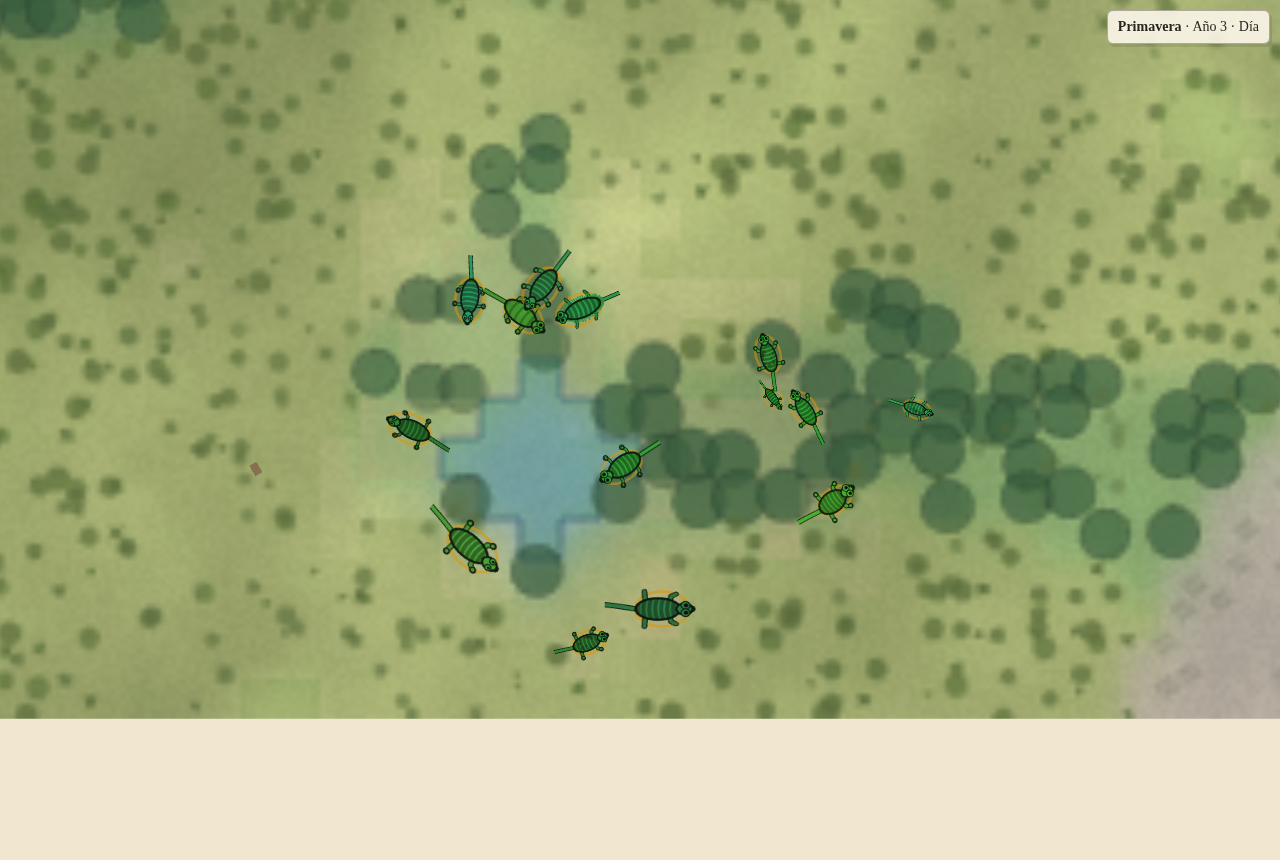
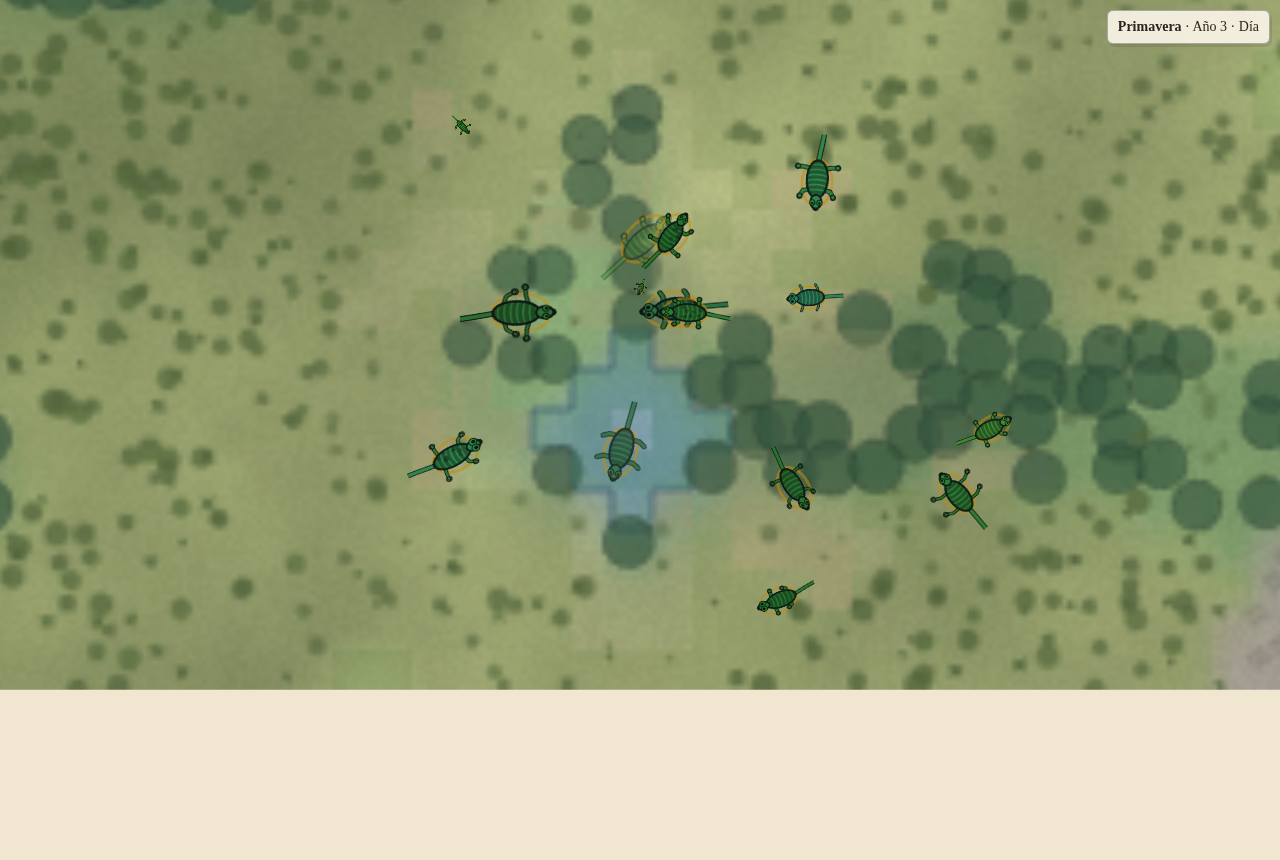
H2: live parcel viewer with procedural watercolour creatures, hidden-info whitelist and Playwright captures
Claude-Session: https://claude.ai/code/session_01Vgdmcc6wmEHq9btfUKE3vm

diff --git a/packages/client/src/world/creatures.ts b/packages/client/src/world/creatures.ts
@@ -1,6 +1,13 @@
-import { Container, Graphics, Sprite, Texture } from 'pixi.js';
+import { Container, Sprite, Texture } from 'pixi.js';
 import { ANIM_KEYS, FrameFlag, V, type Frame, type FrameRecord } from '@linaje/protocol';
-import { bodyLength, bodyPlan, paintCreature, planKey, TEXTURE_SIZE } from './painter';
+import {
+  bodyLength,
+  bodyPlan,
+  paintCreature,
+  planKey,
+  TEXTURE_SIZE,
+  type BodyPlan,
+} from './painter';
 import { CELL_PX } from './terrain';
 import { creatureColor, PLAYER_COLORS } from './palette';
 
@@ -12,7 +19,7 @@ const A = Object.fromEntries(ANIM_KEYS.map((k, i) => [k, i])) as Record<
 interface Entry {
   id: number;
   sprite: Sprite;
-  ring: Graphics | null;
+  ring: Sprite | null;
   def: readonly number[];
   frames: Texture[];
   /** World length in cells of an adult. */
@@ -34,23 +41,60 @@ interface Entry {
   y: number;
 }
 
-/** Texture cache keyed by binned body plan; three walk frames each. */
+/**
+ * Texture cache keyed by binned body plan; three walk frames each. Bounded:
+ * once full, a new plan reuses the texture of the most similar cached plan.
+ */
 class TextureCache {
-  private map = new Map<string, { frames: Texture[]; length: number }>();
+  private map = new Map<string, { frames: Texture[]; length: number; plan: BodyPlan }>();
+  constructor(private readonly max = 400) {}
+
   get(v: readonly number[]): { frames: Texture[]; length: number } {
     const plan = bodyPlan(v);
     const key = planKey(plan);
     let t = this.map.get(key);
-    if (!t) {
-      const frames = ([0, 1, 2] as const).map((f) => Texture.from(paintCreature(plan, f)));
-      t = { frames, length: bodyLength(plan) };
-      this.map.set(key, t);
-    }
+    if (t) return t;
+    if (this.map.size >= this.max) return this.nearest(plan);
+    const frames = ([0, 1, 2] as const).map((f) => Texture.from(paintCreature(plan, f)));
+    t = { frames, length: bodyLength(plan), plan };
+    this.map.set(key, t);
     return t;
   }
+
+  private nearest(p: BodyPlan): { frames: Texture[]; length: number } {
+    let best: { frames: Texture[]; length: number } | null = null;
+    let bd = Infinity;
+    for (const t of this.map.values()) {
+      let d = 0;
+      for (const k of Object.keys(p) as (keyof BodyPlan)[]) d += Math.abs(p[k] - t.plan[k]);
+      if (d < bd) {
+        bd = d;
+        best = t;
+      }
+    }
+    return best as { frames: Texture[]; length: number };
+  }
+
   get size(): number {
     return this.map.size;
   }
+}
+
+let RING: Texture | null = null;
+/** Shared ellipse outline used for every owner ring (tinted per player). */
+function ringTexture(): Texture {
+  if (RING) return RING;
+  const c = document.createElement('canvas');
+  c.width = 64;
+  c.height = 64;
+  const g = c.getContext('2d') as CanvasRenderingContext2D;
+  g.strokeStyle = '#ffffff';
+  g.lineWidth = 3;
+  g.beginPath();
+  g.ellipse(32, 32, 29, 29, 0, 0, Math.PI * 2);
+  g.stroke();
+  RING = Texture.from(c);
+  return RING;
 }
 
 /** World length (cells) of an adult from its size level (length ∝ mass^1/3). */
@@ -115,11 +159,14 @@ export class CreatureLayer {
       const adultCells = adultLength(v[V.size] ?? 8);
       const baseScale = (adultCells * CELL_PX) / ((tex.length / TEXTURE_SIZE) * 2 * TEXTURE_SIZE);
       const owner = def[2] as number;
-      let ring: Graphics | null = null;
+      let ring: Sprite | null = null;
       if (owner < PLAYER_COLORS.length) {
-        ring = new Graphics()
-          .ellipse(0, 0, adultCells * CELL_PX * 0.62, adultCells * CELL_PX * 0.4)
-          .stroke({ width: 0.6, color: PLAYER_COLORS[owner] ?? 0xffffff, alpha: 0.55 });
+        ring = new Sprite(ringTexture());
+        ring.anchor.set(0.5);
+        ring.tint = PLAYER_COLORS[owner] ?? 0xffffff;
+        ring.alpha = 0.6;
+        ring.width = adultCells * CELL_PX * 1.3;
+        ring.height = adultCells * CELL_PX * 0.85;
         this.container.addChild(ring);
       }
       this.container.addChild(sprite);
@@ -160,8 +207,12 @@ export class CreatureLayer {
     e.seen = seen;
   }
 
+  /** Milliseconds spent in the last update (CPU side), smoothed. */
+  updateMs = 0;
+
   /** Positions and animates every sprite for the current display time. */
   update(now: number, dtMs: number): void {
+    const t0 = performance.now();
     const t = Math.min(1, Math.max(0, (now - this.frameAt) / this.frameInterval));
     for (const e of this.entries.values()) {
       const x = e.px + (e.nx - e.px) * t;
@@ -216,9 +267,11 @@ export class CreatureLayer {
         e.ring.x = s.x;
         e.ring.y = s.y;
         e.ring.rotation = s.rotation;
-        e.ring.scale.set(growth);
+        e.ring.width = e.adultCells * CELL_PX * 1.3 * growth;
+        e.ring.height = e.adultCells * CELL_PX * 0.85 * growth;
       }
     }
+    this.updateMs = this.updateMs * 0.9 + (performance.now() - t0) * 0.1;
   }
 
   /** Nearest creature to a world point (cells) within `radius` cells. */

diff --git a/packages/client/e2e/viewer.spec.ts b/packages/client/e2e/viewer.spec.ts
@@ -48,32 +48,33 @@ test('three seeds give clearly different-looking populations', async ({ page }) 
   }
 });
 
-test('after 30 generations of cold, the population looks different', async ({ page }) => {
-  await open(page, 'seed=helada&years=0&scenario=cold');
+test('after 30 generations of predation, the population looks different', async ({ page }) => {
+  await open(page, 'seed=helada&years=0&scenario=predators');
   await focus(page, 5);
-  await page.screenshot({ path: `${OUT}/cold-before.png` });
+  await page.screenshot({ path: `${OUT}/predators-before.png` });
   const before = await means(page);
-  await open(page, 'seed=helada&years=32&scenario=cold');
+  await open(page, 'seed=helada&years=32&scenario=predators');
   await focus(page, 5);
-  await page.screenshot({ path: `${OUT}/cold-after.png` });
+  await page.screenshot({ path: `${OUT}/predators-after.png` });
   const after = await means(page);
-  const furIndex = 11;
-  const sizeIndex = 0;
+  const legIndex = 2;
   console.log(
-    `fur ${before[furIndex]?.toFixed(2)} → ${after[furIndex]?.toFixed(2)}, size ${before[sizeIndex]?.toFixed(2)} → ${after[sizeIndex]?.toFixed(2)}`,
+    `leg length ${before[legIndex]?.toFixed(2)} → ${after[legIndex]?.toFixed(2)} (of 16 levels)`,
   );
-  // A visible coat or body change of at least two quantisation levels.
-  const change = Math.max(
-    Math.abs((after[furIndex] as number) - (before[furIndex] as number)),
-    Math.abs((after[sizeIndex] as number) - (before[sizeIndex] as number)),
-  );
-  expect(change).toBeGreaterThanOrEqual(2);
+  // Longer legs by at least two quantisation levels: visible at a glance.
+  expect((after[legIndex] as number) - (before[legIndex] as number)).toBeGreaterThanOrEqual(2);
 });
 
 test('client benchmark with 2000 creatures', async ({ page }) => {
   await page.goto('/?bench=2000');
   await page.waitForFunction(() => document.body.dataset.fps, null, { timeout: 60_000 });
   const fps = Number(await page.evaluate(() => document.body.dataset.fps));
+  const cpu = Number(await page.evaluate(() => document.body.dataset.updateMs));
+  console.log(
+    `2000 creatures: creature update ${cpu.toFixed(2)} ms of CPU per frame (budget at 60 fps: 16.7 ms)`,
+  );
+  // The JavaScript side must leave room for 60 fps; GPU time depends on the machine.
+  expect(cpu).toBeLessThan(6);
   console.log(
     `2000 creatures: ${fps.toFixed(1)} fps (software rendering in CI; target 60 fps on a mid-range GPU)`,
   );

diff --git a/packages/client/src/bench.ts b/packages/client/src/bench.ts
@@ -28,13 +28,20 @@ export async function runBench(root: HTMLElement, n: number): Promise<void> {
     barrier: new Uint8Array(size * size),
     marks: new Uint8Array(size * size),
   });
+  // Realistic variety: six species, individuals varying around their species' look.
   const defs: number[][] = [];
   const pos: { x: number; y: number; h: number }[] = [];
+  const species = Array.from({ length: 6 }, () =>
+    new Array<number>(VISUAL_COUNT).fill(0).map(() => 2 + Math.floor(Math.random() * 12)),
+  );
   for (let k = 0; k < n; k++) {
-    const v = new Array<number>(VISUAL_COUNT).fill(0).map(() => Math.floor(Math.random() * 16));
+    const sp = k % species.length;
+    const v = (species[sp] as number[]).map((x) =>
+      Math.max(0, Math.min(15, x + Math.round((Math.random() - 0.5) * 3))),
+    );
     v[3] = 2;
-    defs.push([k + 1, 1 + (k % 5), k % 6, ...v]);
-    pos.push({ x: 20 + Math.random() * 70, y: 20 + Math.random() * 70, h: Math.random() * 6.28 });
+    defs.push([k + 1, 1 + sp, sp, ...v]);
+    pos.push({ x: 10 + Math.random() * 76, y: 10 + Math.random() * 76, h: Math.random() * 6.28 });
   }
   world.creatures.setDefs(defs);
   let tick = 0;
@@ -61,8 +68,9 @@ export async function runBench(root: HTMLElement, n: number): Promise<void> {
     else {
       const fps = (frames * 1000) / (performance.now() - t0);
       document.body.dataset.fps = fps.toFixed(1);
+      document.body.dataset.updateMs = world.creatures.updateMs.toFixed(2);
       (document.getElementById('bench-out') as HTMLElement).textContent =
-        `${n} criaturas: ${fps.toFixed(1)} fps`;
+        `${n} criaturas: ${fps.toFixed(1)} fps · CPU por fotograma ${world.creatures.updateMs.toFixed(2)} ms`;
     }
   };
   requestAnimationFrame(count);

diff --git a/packages/sim/src/organisms/derived.ts b/packages/sim/src/organisms/derived.ts
@@ -57,14 +57,22 @@ export function computeDerived(s: OrganismStore, i: number, cfg: SimConfig): voi
     up.fins * tr(T.Fins) +
     up.membranes * tr(T.Membranes);
   const logSize = Math.log2(sizeRatio);
+  // Thermal comfort. Coat and body size are the main (visible) levers; Allen's
+  // rule: long tails and legs lose heat in the cold and shed it in the heat.
+  const extremities = 2.5 * tr(T.Tail) + 2 * tr(T.LegLength);
   d[q + D.ComfortLow] =
     cfg.thermal.comfortLowBase -
-    14 * tr(T.ColdTolerance) -
-    12 * tr(T.Fur) -
+    9 * tr(T.ColdTolerance) -
+    15 * tr(T.Fur) -
     3 * tr(T.FatReserves) -
-    2.5 * logSize;
+    3 * logSize +
+    extremities;
   d[q + D.ComfortHigh] =
-    cfg.thermal.comfortHighBase + 12 * tr(T.HeatTolerance) - 8 * tr(T.Fur) - 1.5 * logSize;
+    cfg.thermal.comfortHighBase +
+    12 * tr(T.HeatTolerance) -
+    8 * tr(T.Fur) -
+    1.5 * logSize +
+    extremities;
   d[q + D.Visibility] =
     (0.45 + 0.7 * tr(T.Conspicuous)) * Math.min(1.8, Math.max(0.5, Math.pow(sizeRatio, 0.3)));
   d[q + D.Endurance] = 0.5 + 0.7 * metab + 0.3 * tr(T.LegStrength);

diff --git a/packages/client/src/world/painter.ts b/packages/client/src/world/painter.ts
@@ -35,7 +35,7 @@ const bin = (v: number, bins: number) => Math.min(bins - 1, Math.floor(((v + 0.5
 export function bodyPlan(v: readonly number[]): BodyPlan {
   return {
     elong: bin(v[V.elongation] ?? 8, 6),
-    legLen: bin(v[V.legLength] ?? 8, 6),
+    legLen: bin(v[V.legLength] ?? 8, 8),
     legPairs: v[V.legCount] ?? 2,
     legStr: bin(v[V.legStrength] ?? 8, 4),
     prehensile: bin(v[V.prehensile] ?? 0, 3),
@@ -163,7 +163,7 @@ export function paintCreature(
 
   // --- Legs (top view: they stick out of the flanks) ---
   if (!legless) {
-    const legLen = 2.5 + p.legLen * 2.1;
+    const legLen = 2 + p.legLen * 2.2;
     const legW = 1.2 + p.legStr * 0.8;
     const pairs = p.legPairs;
     for (let k = 0; k < pairs; k++) {

diff --git a/packages/sim/src/config.ts b/packages/sim/src/config.ts
@@ -164,8 +164,8 @@ export const DEFAULT_SIM_CONFIG = {
     halfMass: 1.6,
   },
   thermal: {
-    comfortLowBase: 13,
-    comfortHighBase: 27,
+    comfortLowBase: 9.8,
+    comfortHighBase: 25,
     /** Extra metabolism per degree below the comfort zone, as a fraction of basal. */
     coldCost: 0.08,
     heatThirst: 0.0007,

diff --git a/PROGRESS.md b/PROGRESS.md
@@ -8,8 +8,8 @@ Documento vivo para retomar el trabajo en frío. Plan detallado en `docs/PLAN.md
 |---|---|
 | H0 · Cimientos | ✅ Cerrado |
 | H1 · Ecosistema headless | ✅ Cerrado |
-| H2 · Verlo | ⏳ En curso |
-| H3 · Jugarlo (un jugador) | — |
+| H2 · Verlo | ✅ Cerrado |
+| H3 · Jugarlo (un jugador) | ⏳ Siguiente |
 | H4 · Multijugador LAN | — |
 | H5 · Gran Intercambio | — |
 | H6 · Bots y equilibrio | — |
@@ -39,15 +39,21 @@ Documento vivo para retomar el trabajo en frío. Plan detallado en `docs/PLAN.md
 
 Herramientas de afinado: `packages/sim/scripts/tune.sh <años> '<config json>'` y `packages/sim/scripts/experiment.sh <a|b|c|d> <semillas>`.
 
-## En curso: H2 · Verlo
-- Hecho: `protocol` (tipos visuales cuantizados, codec binario de fotogramas, terreno, vegetación y fauna; validador de lista blanca de mensajes), `game/view` (proyección visual, fichas cualitativas), servidor de desarrollo (`pnpm dev`) con sesión «en directo», cliente Pixi + Preact (terreno en acuarela, vegetación, fauna ambiental, criaturas procedurales con caché de texturas, animación según conducta, cámara, seguir, inspeccionar, overlay de depuración con `LINAJE_DEBUG=1`), test de información oculta por WebSocket.
-- Playwright (`pnpm test:e2e`): las capturas de 3 semillas pasan (poblaciones claramente distintas).
-- Pendiente: el cambio visible tras 30 generaciones de frío es pequeño (pelaje +1 nivel); el benchmark de 2000 criaturas genera demasiadas texturas distintas.
+### H2 · Verlo
+- `protocol`: definiciones visuales cuantizadas (18 parámetros visibles a 16 niveles), codec binario de fotogramas, terreno, vegetación y fauna; validador de lista blanca de mensajes y lista de claves prohibidas.
+- `game/view`: proyección visual de cada criatura, banderas de estado visibles, ficha de campo cualitativa (claves i18n, sin números).
+- Servidor de desarrollo (`pnpm dev`): sesión «en directo» de una parcela con escenarios (sin presión, depredadores, frío), velocidad variable, inspección; todo mensaje pasa por la lista blanca; overlay de depuración solo con `LINAJE_DEBUG=1`.
+- Cliente PixiJS + Preact: terreno en acuarela, vegetación y fruto, fauna ambiental, criaturas procedurales (cabeza, patas, cola, aletas, membranas, coraza, espinas, pelaje, manchas, rayas, ojos) con caché acotada de texturas por plan corporal y color por tinte, animación según la conducta, interpolación entre fotogramas, cámara (arrastrar, rueda, flechas, `0`), seguir e inspeccionar con retrato.
+- Simulación: reglas de Bergmann y Allen en el confort térmico (el pelaje, el tamaño y las extremidades son las palancas visibles del frío).
+- Tests: información oculta por WebSocket (servidor real); Playwright (`pnpm test:e2e`) con capturas de 3 semillas (poblaciones claramente distintas), antes/después de 32 años de depredación (patas +3 niveles) y benchmark de 2000 criaturas (1,7 ms de CPU por fotograma; los fps de CI son de renderizado por software).
+
+**Cómo probarlo:**
+1. `pnpm dev` y abre `http://localhost:5173/?seed=prueba&years=3`: verás la parcela en directo; rueda para acercar, clic en una criatura para su ficha, «Seguir» para acompañarla.
+2. `LINAJE_DEBUG=1 pnpm dev` y pulsa `d` en el visor: overlay con los datos ocultos (solo desarrollo).
+3. `pnpm test:e2e` genera las capturas en `packages/client/screenshots/`.
 
 ## Siguiente paso concreto
-1. Reglas de Allen y Bergmann en el confort térmico (extremidades cortas y pelaje como palancas visibles del frío) y comprobar la captura antes/después.
-2. Benchmark del cliente con poblaciones realistas (especies con variación individual) y límite de caché de texturas.
-3. Cerrar H2 y empezar H3.
+H3: máquina de estados de la partida en `game` (fundadores → rondas de decisión y simulación), Influencia, catálogo data-driven de acciones con sus comandos de simulación, costumbres, cuaderno de campo con observaciones estructuradas, momentos clave con clips, director de eventos, invasores, relevo de linaje, remanente latente y radiación adaptativa; y en el cliente, la interfaz de una partida de un jugador.
 
 ## Problemas conocidos
 - La capacidad real de las parcelas varía (≈ 450–2500 individuos en equilibrio según el mapa) aunque la productividad esté normalizada: hay que calibrar empíricamente al crear la partida (antes de H5).

diff --git a/docs/PLAN.md b/docs/PLAN.md
@@ -38,14 +38,14 @@ Interfaces primero: `sim` expone `createParcel(spec)`, `ParcelSim.step()`, `appl
 
 ## H2 · Verlo
 
-- [ ] Grabación en `sim`: fotogramas, definiciones visuales cuantizadas, estados de animación, búfer circular.
-- [ ] `protocol`: tipos de terreno, fotogramas y definiciones visuales; codec binario.
-- [ ] Servidor mínimo de desarrollo que simula una parcela y emite en directo.
-- [ ] Cliente: terreno en acuarela, vegetación, fauna ambiental, criaturas procedurales con caché de texturas y animación por estado.
-- [ ] Cámara (arrastrar, zoom), seguir e inspeccionar (ficha cualitativa).
-- [ ] Overlay de depuración solo con `LINAJE_DEBUG=1`.
-- [ ] Playwright: capturas de 3 semillas distintas; antes y después de 30 generaciones de presión.
-- [ ] Benchmark del cliente con 2000 criaturas (fps).
+- [x] Grabación en `sim`: fotogramas, definiciones visuales cuantizadas, estados de animación, búfer circular.
+- [x] `protocol`: tipos de terreno, fotogramas y definiciones visuales; codec binario.
+- [x] Servidor mínimo de desarrollo que simula una parcela y emite en directo.
+- [x] Cliente: terreno en acuarela, vegetación, fauna ambiental, criaturas procedurales con caché de texturas y animación por estado.
+- [x] Cámara (arrastrar, zoom), seguir e inspeccionar (ficha cualitativa).
+- [x] Overlay de depuración solo con `LINAJE_DEBUG=1`.
+- [x] Playwright: capturas de 3 semillas distintas; antes y después de 30 generaciones de presión.
+- [x] Benchmark del cliente con 2000 criaturas (fps).
 
 ## H3 · Jugarlo (un jugador)
 
